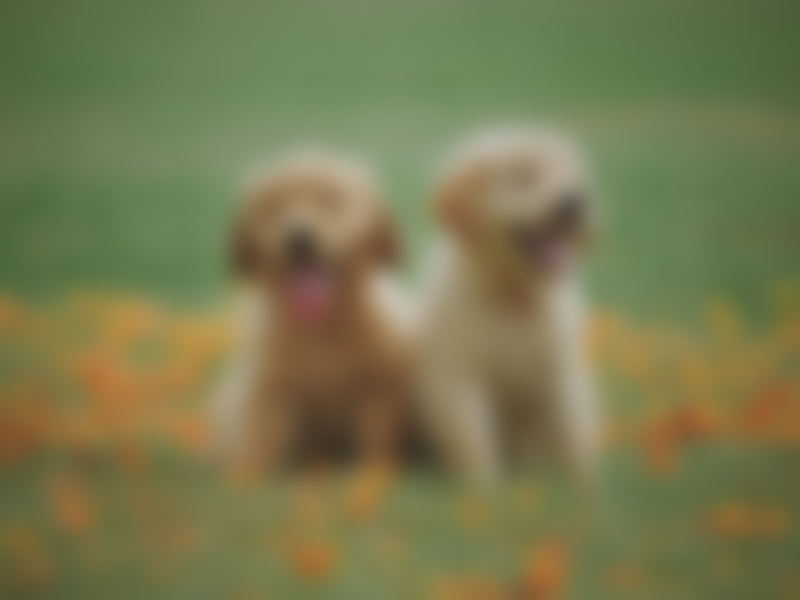
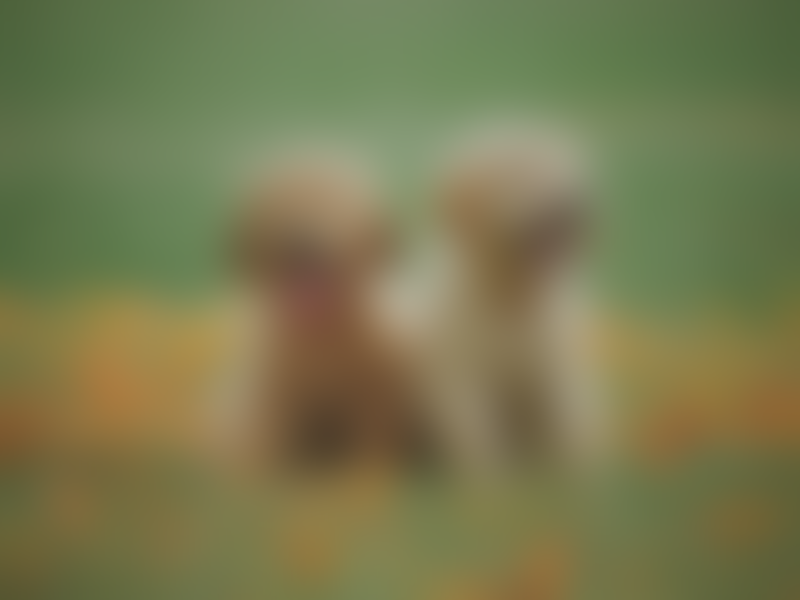
improved/debuged/ added to code

diff --git a/ImageApp/imageManipulation.py b/ImageApp/imageManipulation.py
@@ -2,14 +2,16 @@ import pygame, sys
 import filters
 
 pygame.init()
-screen = pygame.display.set_mode([1000, 600])
+screen = pygame.display.set_mode([1000, 700])
 #bools
 dragging = False
 #constants
 buttons=[]
-titles=["Black & White","Blur","Invert","Sharpen","Edge Detection","Sepia"]
+sliders=[]
+titles=["Black & White","Blur","Invert","Sharpen","Edge Detection","Sepia","Reset"]
+sliderTitles=["Saturation", "Brightness"]
 #fonts
-myfont = pygame.font.SysFont('ArialBold', 32)
+myfont = pygame.font.SysFont('ArialBold', 24)
 #colors
 white=(255 ,255, 255)
 
@@ -26,39 +28,43 @@ class Button:
         self.y = y
         self.w = 160
         self.h = 47
-    title = "Black & White"
-    w = 160
-    h = 47
-    x = 820
-    y = 100
 
 class Slider:
-    x = 500
-    y = 300
-    Ex = 562.5
-    Ey = 287.5
-    lineHeight = 5
-    lineWidth = 150
-    ellipseHeight = 25
-    ellipseWidth = 25
-slider = Slider()
+    def __init__(self, x, y, title):
+        self.title=title
+        self.x = x
+        self.y = y
 
+        self.lineWidth = 150
+        self.lineHeight = 5
+        self.ellipseHeight = 25
+        self.ellipseWidth = 25
+
+        self.middleX = self.x + self.lineWidth /2 - self.ellipseWidth/2
+        self.middleY = self.y + self.lineHeight / 2 - self.ellipseHeight / 2
+
+        self.Ex = self.middleX
+        self.Ey = self.middleY
+
+for i in range(2):
+    slider = Slider(75+i * 200,650,sliderTitles[i])
+    sliders.append(slider)
 
 #buttons
-for i in range(6):
+for i in range(7):
     button = Button(820,100+i * 75,titles[i])
     buttons.append(button)
 
 #Menu screen functions
 def drawUI():
-
-    pygame.draw.rect(screen, (0, 0, 0), (slider.x,slider.y,slider.lineWidth,slider.lineHeight), 0)
-    pygame.draw.ellipse(screen,(0,0,100),(slider.Ex, slider.Ey, slider.ellipseHeight,slider.ellipseWidth),0)
+    for slider in sliders:
+        pygame.draw.rect(screen, (0, 0, 0), (slider.x, slider.y, slider.lineWidth, slider.lineHeight), 0)
+        pygame.draw.ellipse(screen, (0, 0, 100), (slider.Ex, slider.Ey, slider.ellipseHeight, slider.ellipseWidth), 0)
 
     for button in buttons:
         screen.blit(BUTTON_IMG, (button.x,button.y))
         buttonLabel = myfont.render(button.title, 1, pygame.color.THECOLORS['black'])
-        screen.blit(buttonLabel, (button.x, button.y))
+        screen.blit(buttonLabel, (button.x+10, button.y+12))
 
 def pointInRect(pt_x, pt_y, rect_x, rect_y, rect_w, rect_h):
     if (pt_x > rect_x) and (pt_x < rect_x + rect_w) and (pt_y > rect_y) and (pt_y < rect_y + rect_h):
@@ -91,18 +97,39 @@ def checkButtons():
                 IMAGE_CURRENT = pygame.image.load(sharpPhoto)
                 filters.sharpness += 2.5
             elif button.title == "Sepia":
-                bluePhoto = filters.diySepia(FILENAME)
-                IMAGE_CURRENT = pygame.image.load(bluePhoto)
+                sepiaPhoto = filters.diySepia(FILENAME)
+                IMAGE_CURRENT = pygame.image.load(sepiaPhoto)
+            elif button.title == "Reset":
+                IMAGE_CURRENT = IMAGE_ORIGINAL
 
+def changeSaturationLevel(mouse_x,slider):
+    #left = -
+    #right = +
+    global IMAGE_CURRENT
 
+    diff = mouse_x-slider.middleX
+    print(diff)
+
+    if diff > 0:
+        half=slider.lineWidth/2
+        distPercent=diff/half
+        newSaturationLevel = distPercent*10
+        filters.saturationLevel =  newSaturationLevel
+    elif diff < 0:
+        filters.saturationLevel = 0.5
+
+    saturatedPhoto = filters.saturation(FILENAME)
+    IMAGE_CURRENT = pygame.image.load(saturatedPhoto)
 
 def checkSlider(mouse_x, mouse_y):
-    #x = pygame.mouse.get_pos()[0]
-    #y = pygame.mouse.get_pos()[1]
-    if pointInRect(mouse_x, mouse_y, slider.x, slider.y,slider.lineWidth, slider.ellipseHeight):
-        print("slider clicked!")
-        print(mouse_x)
-        slider.Ex = mouse_x
+    for slider in sliders:
+        if pointInRect(mouse_x, mouse_y, slider.x, slider.y,slider.lineWidth, slider.ellipseHeight):
+            slider.Ex = mouse_x
+            if slider.title =="Saturation":
+                changeSaturationLevel(mouse_x, slider)
+            elif slider.title ==  "Brightness":
+                pass
+
 
 
 running = True
@@ -132,8 +159,8 @@ while running:
     #drawing components
     drawUI()
 
-    label = myfont.render("Welcome!", 1, pygame.color.THECOLORS['black'])
-    screen.blit(label, (180, 10))
+    #label = myfont.render("Welcome!", 1, pygame.color.THECOLORS['black'])
+    #screen.blit(label, (180, 10))
 
     #update the display
     pygame.display.update()

diff --git a/ImageApp/filters.py b/ImageApp/filters.py
@@ -3,6 +3,7 @@ import PIL.ImageOps
 
 blurRadius = 2.5
 sharpness= 10
+saturationLevel = 2
 
 def diySepia(filename):
     new_name = "sepia.png"
@@ -12,19 +13,39 @@ def diySepia(filename):
     for y in range(height):
         for x in range(width):
             r, g, b = img.getpixel((x,y))
-            newRed = int(r*0.5)
-            newGreen = int(g*0.5)
-            newBlue = int(b*10)
+            newRed = int((r * .393) + (g * .769) + (b * .189))
+            newGreen = int((r * .349) + (g * .686) + (b * .168))
+            newBlue = int((r * .272) + (g * .534) + (b * .131))
             pixels[x,y] =(newRed,newGreen, newBlue)
     img.save(new_name)
     return new_name
 
+def saturation(filename):
+    new_name = "saturated.png"
+    img = Image.open(filename)
+    converter = PIL.ImageEnhance.Color(img)
+    img2 = converter.enhance(saturationLevel)
+    img2.save(new_name)
+    return new_name
 
 def Invert(filename):
     new_name = "inverted.png"
     img = Image.open(filename)
-    img = PIL.ImageOps.invert(img)
+    width, height = img.size
+    pixels = img.load()
+    for y in range(height):
+        for x in range(width):
+            r, g, b = img.getpixel((x, y))
+            newRed = int(255-r)
+            newGreen = int(255-g)
+            newBlue = int(255-b)
+            pixels[x, y] = (newRed, newGreen, newBlue)
     img.save(new_name)
+    return new_name
+    #new_name = "inverted.png"
+    #img = Image.open(filename)
+    #img = PIL.ImageOps.invert(img)
+    #img.save(new_name)
     return new_name
 
 def findEdge(filename):
@@ -48,7 +69,6 @@ def sharpen(filename):
     img = enhancer.enhance(sharpness)
     img.save(new_name)
     return new_name
-
 
 def blur(filename):
     new_name = "blur.png"
